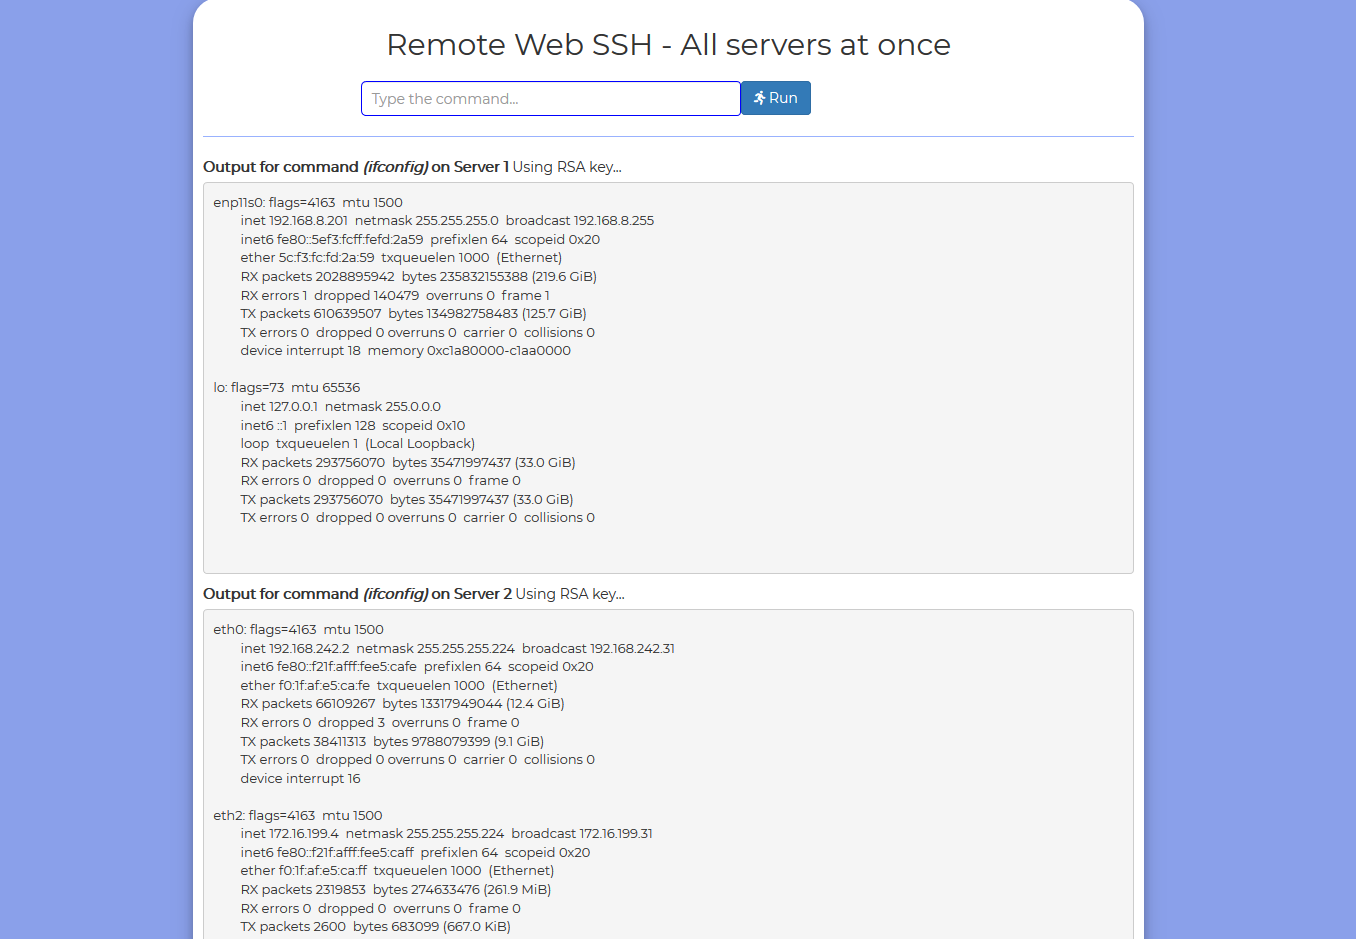
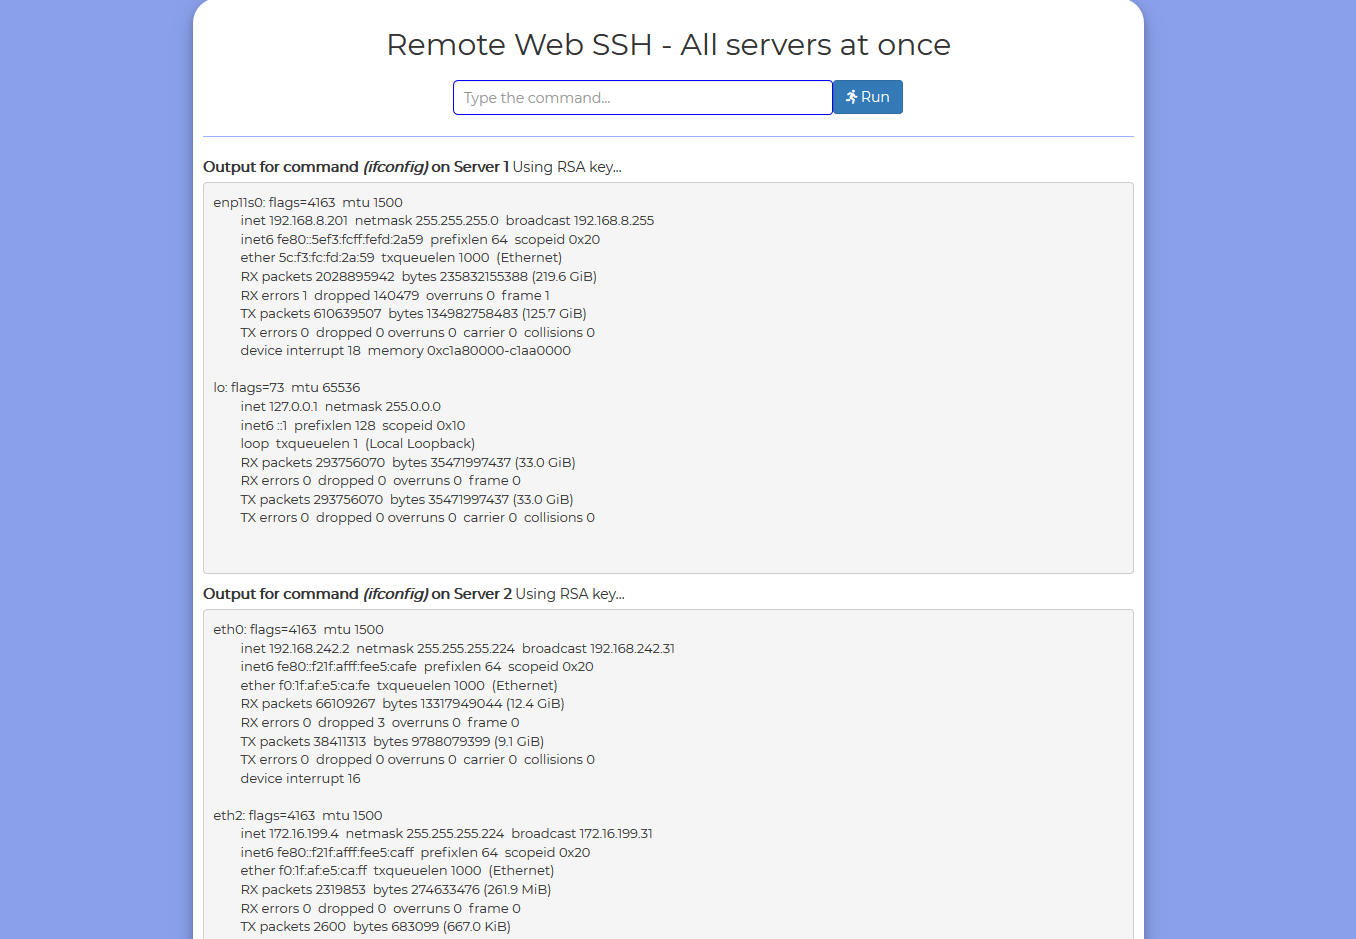
Added picture for readme and fixed output for preformatted text

Changed region(s): [[0.5265, 0.0618, 0.6814, 0.1235], [0.2788, 0.0927, 0.4646, 0.1235]]

diff --git a/css/style.css b/css/style.css
@@ -21,10 +21,6 @@ h2 {
     margin-bottom: 20px;
 }
 
-.alinhar_centro {
-    margin-left: 16.4%;
-}
-
 #run_command input[type="text"] {
     width:380px;
     height:35px;
@@ -34,7 +30,6 @@ h2 {
     border-bottom-left-radius: 5px;
     float:left;
     outline: none;
-    margin-left: 18%;
 }
 
 #run_command input[type="button"] {
@@ -43,6 +38,10 @@ h2 {
 }
 
 .run_command {
+    display: flex;
+    flex-direction: row;
+    align-items: center;
+    justify-content: center;
     margin-bottom: 20px;
 }
 

diff --git a/remote_ssh_web.php b/remote_ssh_web.php
@@ -48,7 +48,6 @@
     <div id="command">
         <h2>Remote Web SSH - All servers at once</h2>
         <form action="remote_ssh_web.php" method="post" class="run_command">
-            <!-- <label for="command" class="alinhar_centro">Command: </label> -->
             <div class="row">
                 <div id="run_command">
                     <input type="text" class="form-control" name="command" aria-describedby="command" placeholder="Type the command..." required>
